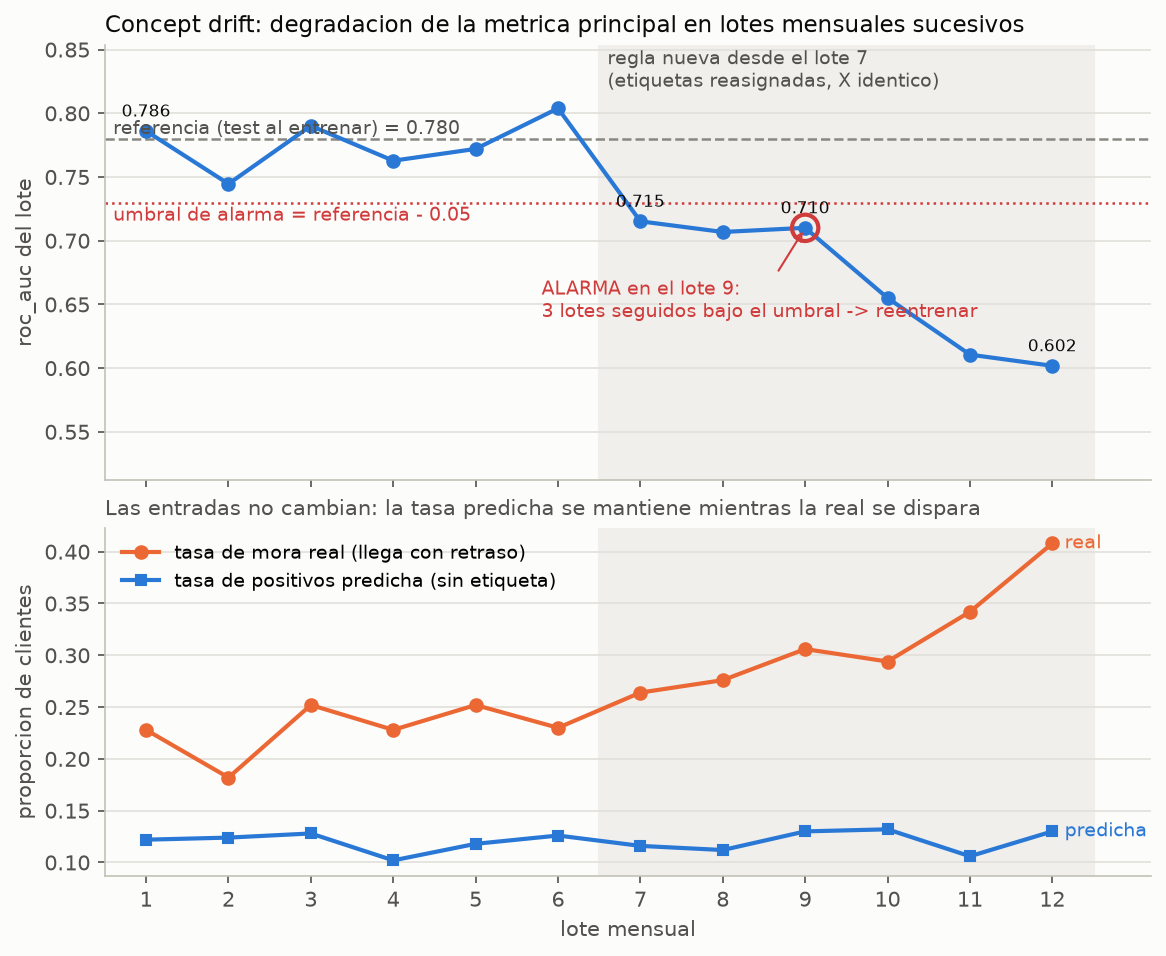
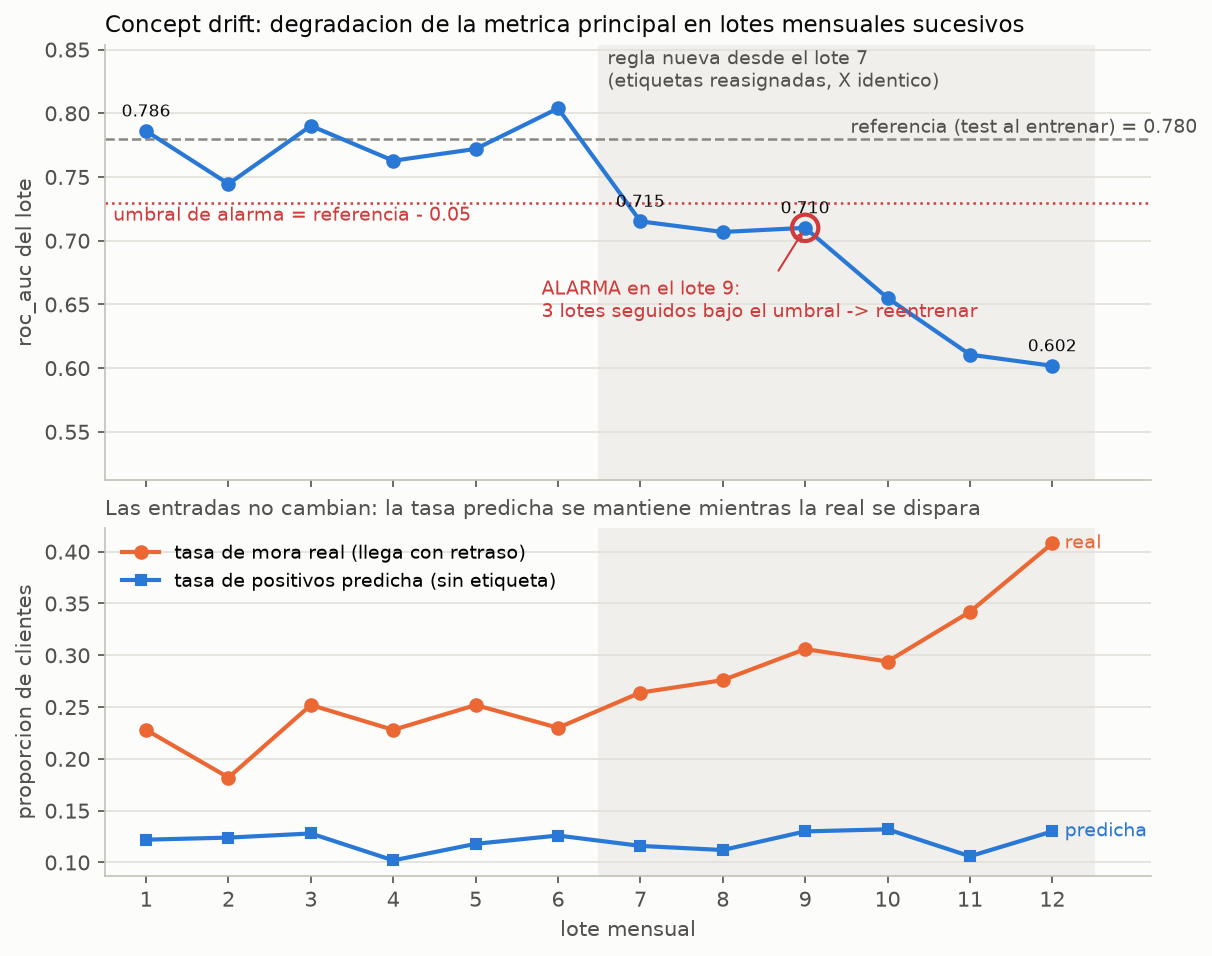
docs: informe del proyecto final (Word generado desde los resultados reales) y grafica de concept drift ajustada

diff --git a/monitoreo/concept_drift.py b/monitoreo/concept_drift.py
@@ -144,7 +144,7 @@ def graficar(tabla: pd.DataFrame, auc_referencia: float, alarma, salida: Path) -
     ax1.axhline(auc_referencia, color=GRIS, linewidth=1.2, linestyle="--")
     ax1.axhline(umbral, color=ROJO, linewidth=1.2, linestyle=":")
     ax1.plot(lotes, tabla["roc_auc"], color=AZUL, linewidth=2, marker="o", markersize=6, zorder=3)
-    ax1.text(0.6, auc_referencia + 0.004, f"referencia (test al entrenar) = {auc_referencia:.3f}", color="#52514e", fontsize=9)
+    ax1.text(9.55, auc_referencia + 0.005, f"referencia (test al entrenar) = {auc_referencia:.3f}", color="#52514e", fontsize=9)
     ax1.text(0.6, umbral - 0.014, f"umbral de alarma = referencia - {CAIDA_MAXIMA:.2f}", color=ROJO, fontsize=9)
     ax1.text(INICIO_DRIFT - 0.4, ax1.get_ylim()[1] if False else tabla["roc_auc"].max() + 0.012,
              "regla nueva desde el lote 7\n(etiquetas reasignadas, X identico)", color="#52514e", fontsize=9, va="bottom")
